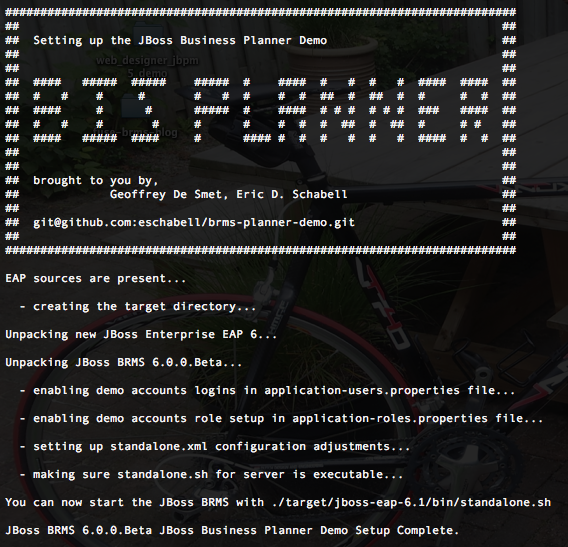
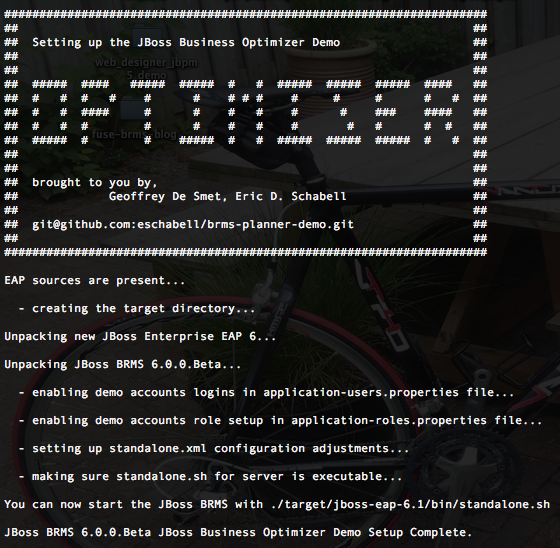
Updated with optimizer naming.

diff --git a/README.md b/README.md
@@ -1,5 +1,5 @@
-JBoss Business Planner Demo 
-===========================
+JBoss Business Optimizer Demo 
+=============================
 
 ![Install Console] (https://github.com/eschabell/business-resource-planner-demo/blob/master/docs/demo-images/install-console.png?raw=true)
 
